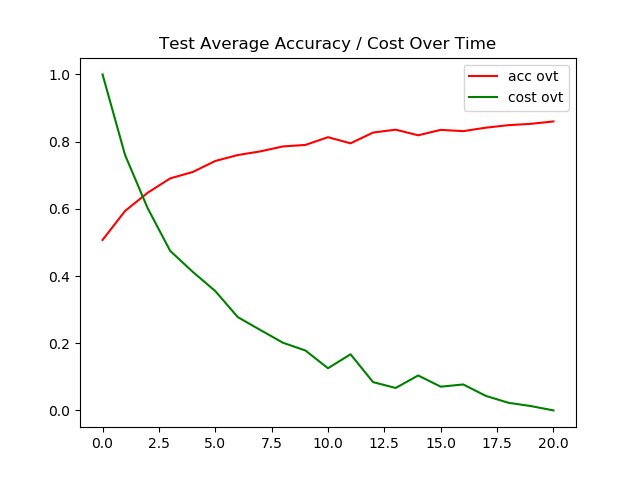
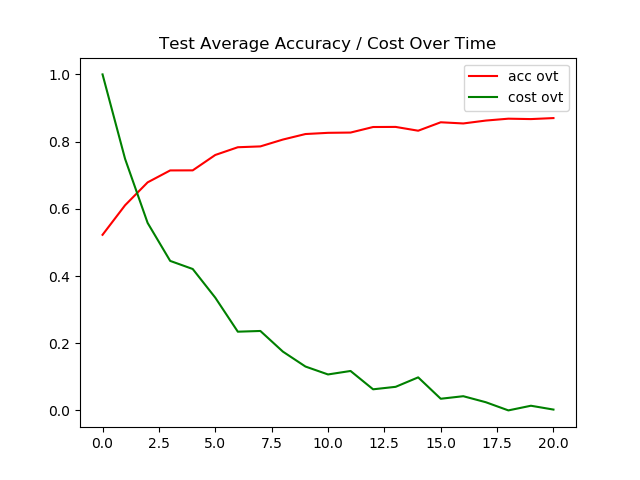
mix

diff --git a/NeuralNetwork/selective/second/i_more.py b/NeuralNetwork/selective/second/i_more.py
@@ -160,7 +160,7 @@ print_size = 1
 beta1,beta2,adam_e = 0.9,0.9,1e-9
 decouple_weight   = 1
 
-learning_rate = 0.0003
+learning_rate = 0.0001
 learnind_rate_decay = 0.001
 
 proportion_rate = 0.0001
@@ -170,7 +170,7 @@ decay_rate = 0.01
 
 
 # define class
-channel_size = 96
+channel_size = 128
 
 l0 = CNN(3,3,channel_size,tf_elu,d_tf_elu)
 
@@ -275,7 +275,6 @@ auto_train  = tf.train.AdamOptimizer(learning_rate=learning_rate_change).minimiz
 #               grad0_up
 # ===== manual ====
 
-sys.exit()
 
 # sess
 with tf.Session() as sess:
